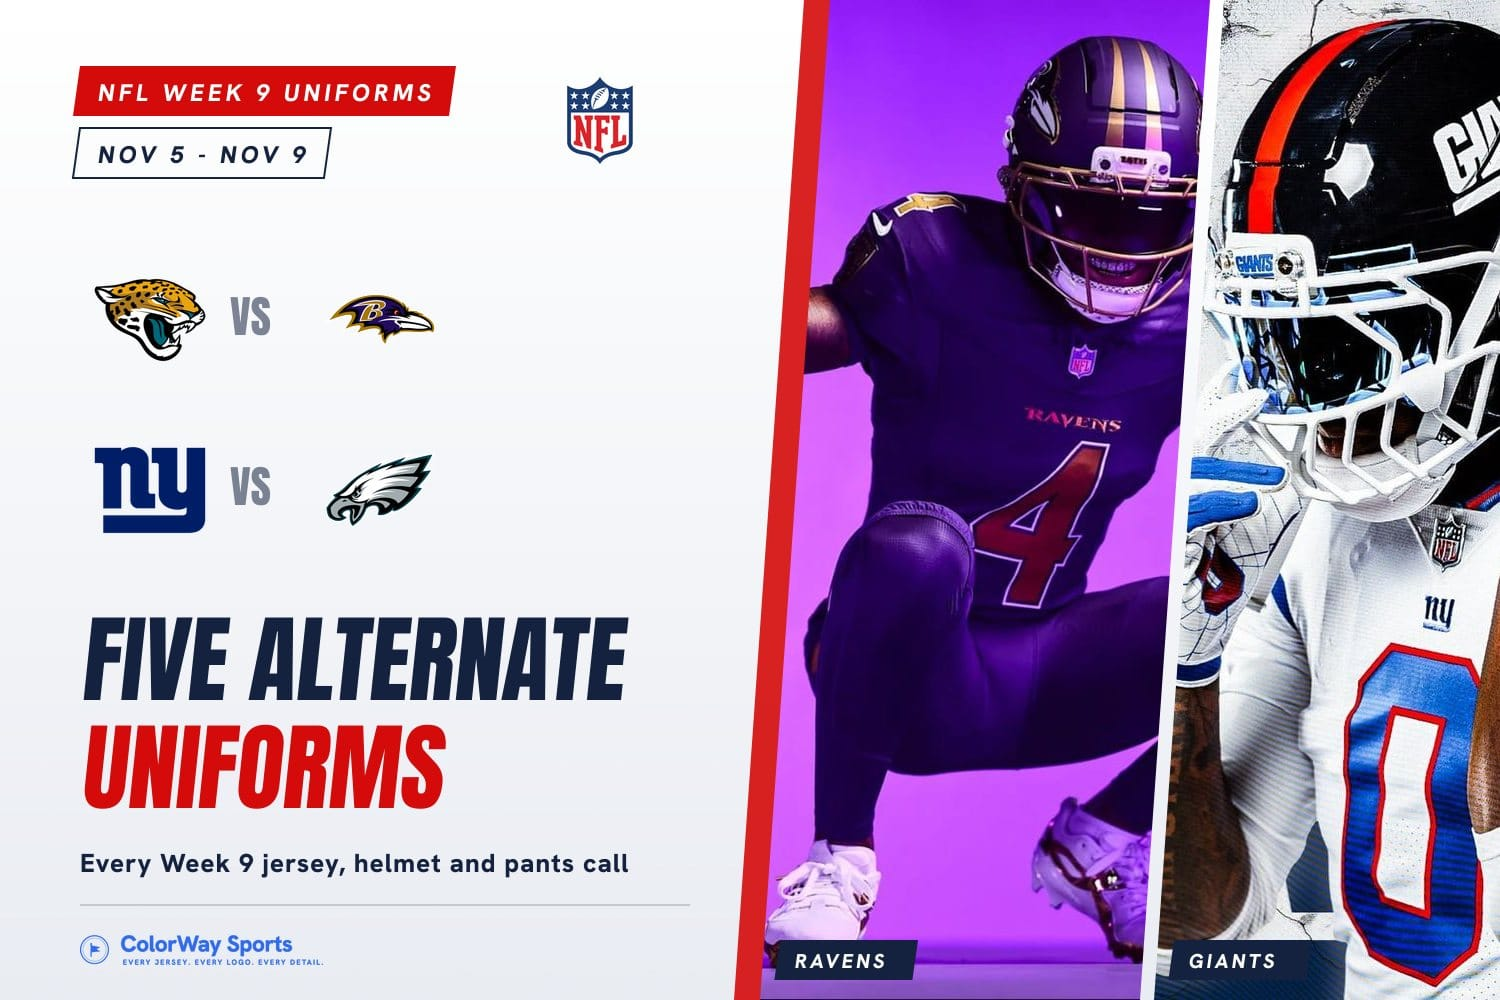
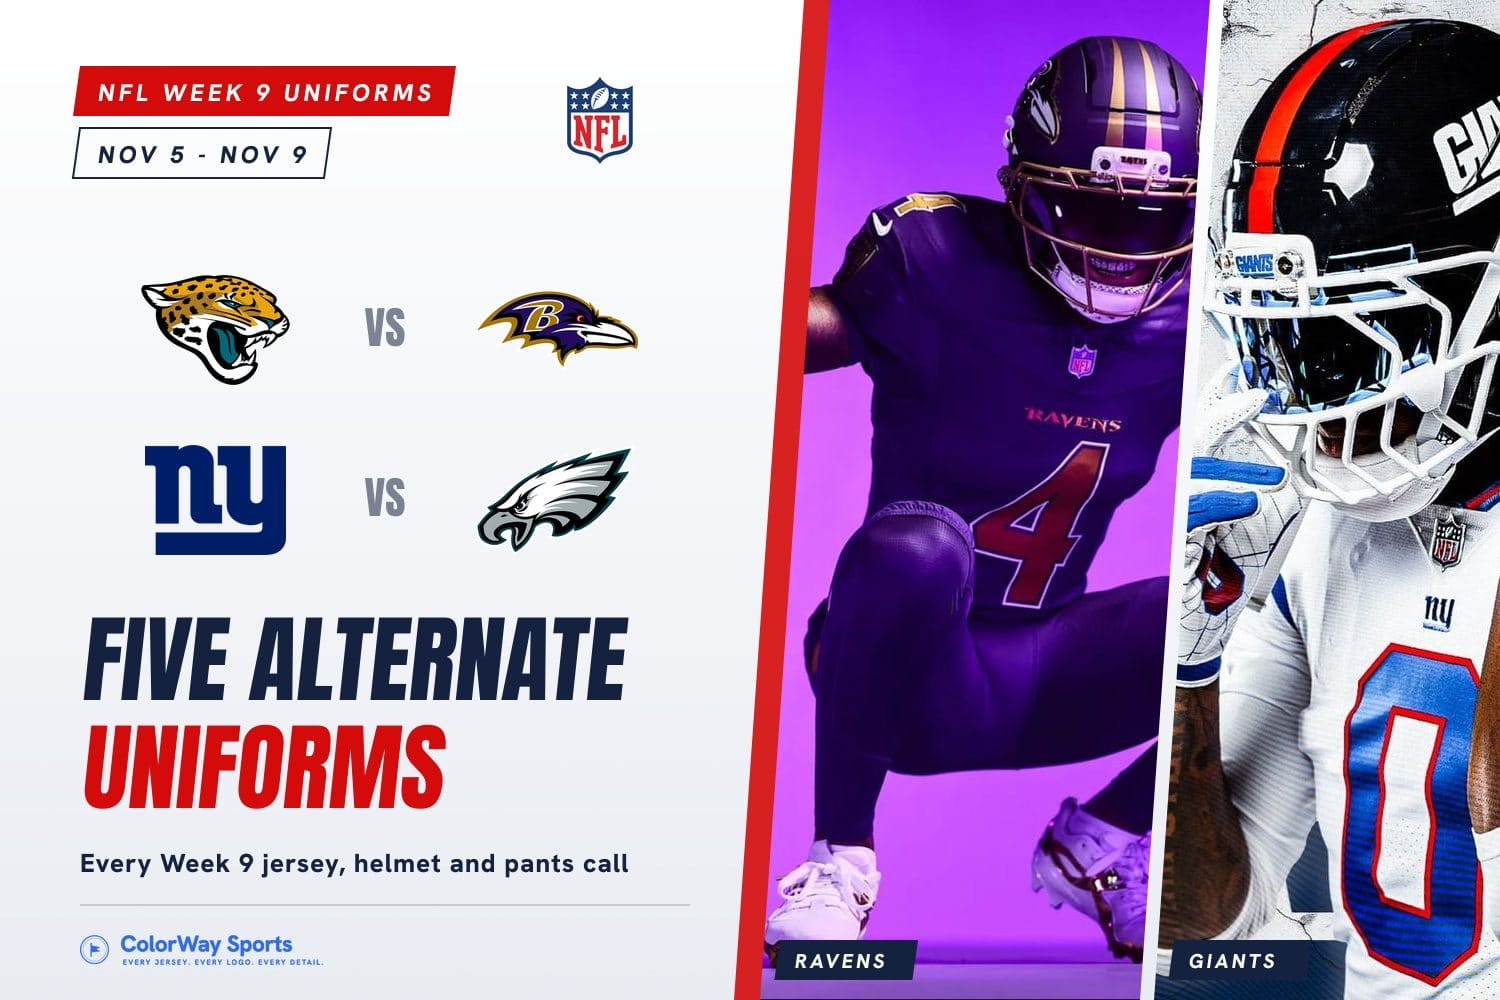
Simpler homepage (Jake 11/4): My Teams, lead + Jake's Takes, latest, one Tonight row (lib/tonight.ts) instead of the daily brief and three league bands; News becomes Latest (newest stories, then The Wire); compact My Teams cards; Week 9 cover matchups centered

Changed region(s): [[0.0613, 0.248, 0.4293, 0.403], [0.0613, 0.434, 0.3067, 0.558], [0.3067, 0.434, 0.4293, 0.558]]

diff --git a/app/page.tsx b/app/page.tsx
@@ -1,22 +1,16 @@
 import Header from "@/components/Header";
-import NflWeekZoneV2 from "@/components/NflWeekZoneV2";
-import NhlUniformsZone from "@/components/NhlUniformsZone";
 import StoryCard from "@/components/StoryCard";
-import {
-  TodayBrief,
-  LeadStory,
-  JakesTakes,
-  TonightStrip,
-} from "@/components/home/HomeRefresh";
-import { getJakesTakes, getTonight, latestStandsDate, standsPhotoFor, standsPool, todayBrief } from "@/lib/homeToday";
+import { LeadStory, JakesTakes } from "@/components/home/HomeRefresh";
+import { getJakesTakes, latestStandsDate, standsPhotoFor, standsPool } from "@/lib/homeToday";
 import { MyTeamsRow, TeamPicker } from "@/components/home/MyTeams";
 import { getMyTeamCards } from "@/lib/myTeams";
+import { tonightMatchups } from "@/lib/tonight";
+import TonightRow from "@/components/home/TonightRow";
 import { MOST_READ } from "@/lib/mostRead";
 import FromTheStandsRandom from "@/components/home/FromTheStandsRandom";
 import WireStrip from "@/components/WireStrip";
 import Footer from "@/components/Footer";
 import Link from "next/link";
-import NbaTonightZone from "@/components/NbaTonightZone";
 import { pickFor } from "@/lib/jerseyOfTheDay";
 import type { Metadata } from "next";
 import { getAllPosts, type PostMeta as Post } from "@/lib/posts";
@@ -303,13 +297,12 @@ export default async function Home() {
 
   // The self-updating pieces (homepage refresh, 10/5).
   const takes = getJakesTakes(4, new Set([...heroSlugs, ...gridSlugs]));
-  const tonight = getTonight();
-  const brief = todayBrief(tonight, takes);
   const standsPhoto = standsPhotoFor(todayEt, new Set([...heroSlugs, ...gridSlugs]));
   const standsPhotos = standsPool(new Set([...heroSlugs, ...gridSlugs]));
   const standsFresh = daysSince(latestStandsDate()) <= 7;
   const mostRead = MOST_READ.map((slug) => posts.find((p) => p.slug === slug)).filter((p): p is Post => !!p).slice(0, 5);
   const myTeamCards = getMyTeamCards();
+  const tonightGames = tonightMatchups(new Date());
   const todayLong = new Date(`${todayEt}T12:00:00Z`).toLocaleDateString("en-US", {
     weekday: "long",
     month: "long",
@@ -324,9 +317,9 @@ export default async function Home() {
         <h1 className="sr-only">
           ColorWay Sports — Every Jersey. Every Logo. Every Detail. Covering sports jerseys, uniforms, logos, scorebugs, and stadium design.
         </h1>
-        {/* 10/5: dateline + a brief written from today's data */}
-        <TodayBrief day={todayLong} lines={brief} />
-
+        {/* Jake 11/4: simpler, ESPN-style top to bottom: your teams, the lead,
+            tonight, latest, most read. The daily brief and the three league
+            bands are gone; /tonight holds every game. */}
         {/* Jake 11/2: the reader's followed teams, next uniform first. Shows only
             after they follow a team in the Find Your Team row below. */}
         <MyTeamsRow teams={myTeamCards} />
@@ -364,13 +357,9 @@ export default async function Home() {
           </section>
         )}
 
-        <TeamPicker teams={myTeamCards} />
+        <TonightRow games={tonightGames} label={todayLong.split(",")[0]} />
 
-        {/* Tonight across leagues, straight off the slate files. Moved below the
-            lead + three cards 10/13 (Jake: one up top, three underneath). */}
-        <div className="pt-8" />
-        <TonightStrip leagues={tonight} />
-        {/* The Wire now lives in the Jake's Takes rail up top (Jake 10/25). */}
+        <TeamPicker teams={myTeamCards} />
         <div className="pt-10" />
 
         {/* From the Stands (Jake's own photos, random each visit since 10/13) beside More Stories */}
@@ -440,12 +429,6 @@ export default async function Home() {
           </div>
         </section>
 
-        {/* League tools move below the editorial top half */}
-        <NflWeekZoneV2 />
-        {/* Jake 10/19: NBA band with every game's jerseys and our matchup grade. */}
-        <NbaTonightZone />
-        {/* Jake 11/2: MLB season is over, so the MLB and World Series bands are gone until spring. */}
-        <NhlUniformsZone />
       </main>
       <Footer />
     </>

diff --git a/app/news/page.tsx b/app/news/page.tsx
@@ -3,7 +3,8 @@ import Footer from "@/components/Footer";
 import Link from "next/link";
 import type { Metadata } from "next";
 import { getAllNews, groupByDay, newsThumb, recentNews, stamp } from "@/lib/news";
-import { getAllPosts } from "@/lib/posts";
+import { getAllPosts, getAllPostsByDate } from "@/lib/posts";
+import StoryCard from "@/components/StoryCard";
 import WireItem from "@/components/WireItem";
 import InlineNewsletter from "@/components/InlineNewsletter";
 import TwitterEmbed from "@/components/TwitterEmbed";
@@ -38,6 +39,9 @@ export default async function NewsFeed() {
     .sort((a, b) => (a.topViewsRank ?? 99) - (b.topViewsRank ?? 99))
     .slice(0, 5);
 
+  // Jake 11/4: this page is "Latest" in the nav, the newest stories first, then the wire.
+  const latest = getAllPostsByDate().filter((p) => p.coverImage || p.cardStyle).slice(0, 6);
+
   return (
     <>
       <Header />
@@ -45,13 +49,33 @@ export default async function NewsFeed() {
         {/* widgets.js is loaded globally; this re-runs it so wire embeds render */}
         <TwitterEmbed />
         <div className="max-w-[1080px] mx-auto px-5">
-          <header className="pt-9 pb-5 border-b-2 border-black">
+          <header className="pt-9 pb-4 border-b-2 border-black">
+            <h1 className="font-display text-[34px] sm:text-[40px] font-black tracking-[-0.025em] leading-[1.05] text-black m-0">
+              Latest
+            </h1>
+          </header>
+          <section className="pt-6 pb-4">
+            <div className="flex items-center justify-between mb-4">
+              <h2 className="font-display text-[12px] font-extrabold tracking-[0.18em] uppercase text-steel m-0">Newest stories</h2>
+              <Link prefetch={false} href="/stories" className="font-display text-[12px] font-extrabold text-orange">All stories &rarr;</Link>
+            </div>
+            <div className="grid grid-cols-1 sm:grid-cols-2 lg:grid-cols-3 gap-6">
+              {latest.map((post) => (
+                <StoryCard key={post.slug} slug={post.slug} title={post.title} category={post.category} date={post.date}
+                  updatedDate={post.updatedDate} excerpt={post.excerpt} gradient={post.gradient} overlayText={post.overlayText}
+                  logoSrc={post.logoSrc} logoSrc2={post.logoSrc2} coverImage={post.coverImage}
+                  coverImagePosition={post.coverImagePosition} coverImageFit={post.coverImageFit} cardStyle={post.cardStyle}
+                  kicker={post.kicker} showDate={true} compact />
+              ))}
+            </div>
+          </section>
+          <header className="pt-6 pb-5 border-b-2 border-black">
             <p className="font-display text-[11px] font-extrabold tracking-[0.24em] uppercase text-orange m-0 mb-2">
               ColorWay Sports
             </p>
-            <h1 className="font-display text-[34px] sm:text-[40px] font-black tracking-[-0.025em] leading-[1.05] text-black m-0 mb-3">
+            <h2 className="font-display text-[28px] sm:text-[32px] font-black tracking-[-0.025em] leading-[1.05] text-black m-0 mb-3">
               The Wire
-            </h1>
+            </h2>
             <p className="text-[15.5px] text-gray-medium max-w-[640px] leading-relaxed m-0 mb-2">
               Uniform news as it happens. Reveals, weekly combinations, throwbacks, and the stuff
               that goes wrong on the field. Short, fast, and checked before we post it.

diff --git a/components/home/MyTeams.tsx b/components/home/MyTeams.tsx
@@ -71,36 +71,34 @@ export function MyTeamsRow({ teams, teamPages }: { teams: MyTeamCard[]; teamPage
       </div>
       <div className="flex gap-3 overflow-x-auto pt-2 pr-2 pb-2 snap-x lg:flex-wrap lg:overflow-visible">
         {mine.map((t) => (
-          <div key={t.id} className="relative snap-start shrink-0 w-[260px] sm:w-[280px]">
+          <div key={t.id} className="relative snap-start shrink-0 w-[210px] sm:w-[250px]">
             <Link
               prefetch={false}
               href={teamPages ? teamPage(t.id) : t.href}
-              className="flex gap-3 items-center rounded-2xl p-3 text-white h-full"
+              className="flex gap-2.5 items-center rounded-xl p-2 sm:p-2.5 text-white h-full"
               style={{ background: `linear-gradient(120deg, #0A1733 0%, ${t.color} 170%)` }}
             >
-              <div className="w-[72px] h-[86px] shrink-0 rounded-xl bg-white flex items-center justify-center overflow-hidden">
+              <div className="w-[48px] h-[56px] sm:w-[58px] sm:h-[68px] shrink-0 rounded-lg bg-white flex items-center justify-center overflow-hidden">
                 {/* eslint-disable-next-line @next/next/no-img-element */}
                 <img src={t.next?.img ?? t.logo} alt="" className={t.next?.img ? "w-[90%] h-[90%] object-contain" : "w-[70%] h-[70%] object-contain"} />
               </div>
               <div className="min-w-0">
-                <div className="flex items-center gap-1.5 text-[10px] font-black tracking-[0.16em] uppercase text-sky">
+                <div className="flex items-center gap-1 text-[9px] font-black tracking-[0.14em] uppercase text-sky truncate">
                   {/* eslint-disable-next-line @next/next/no-img-element */}
-                  <img src={t.logo} alt="" className="w-4 h-4 object-contain" />
+                  <img src={t.logo} alt="" className="w-3.5 h-3.5 object-contain" />
                   {t.nickname} · {t.league}
                 </div>
                 {t.next ? (
                   <>
-                    <div className="font-display font-black text-[16px] leading-tight mt-1">{t.next.look}</div>
-                    <div className="text-[12px] text-white/75 mt-0.5 truncate">
+                    <div className="font-display font-black text-[14px] sm:text-[15px] leading-tight mt-0.5 truncate">{t.next.look}</div>
+                    <div className="text-[11px] text-white/75 mt-0.5 truncate">
                       {t.next.when} · {t.next.opp}
                     </div>
-                    {!t.next.confirmed && t.league === "NFL" && <div className="text-[10px] text-white/55 mt-0.5">Expected look</div>}
-                  </>
+                                      </>
                 ) : (
-                  <div className="font-display font-black text-[16px] leading-tight mt-1">{t.note}</div>
+                  <div className="font-display font-black text-[14px] leading-tight mt-0.5">{t.note}</div>
                 )}
-                <div className="text-[11px] font-bold text-white/85 mt-1">{teamPages ? "Team page" : "Full schedule"} &rarr;</div>
-              </div>
+                              </div>
             </Link>
             {editing && (
               <button

diff --git a/app/tonight/page.tsx b/app/tonight/page.tsx
@@ -2,43 +2,19 @@ import Header from "@/components/Header";
 import Footer from "@/components/Footer";
 import Link from "next/link";
 import type { Metadata } from "next";
-import { getMyTeamCards, teamPagePath, type MyTeamCard } from "@/lib/myTeams";
+import { teamPagePath, type MyTeamCard } from "@/lib/myTeams";
+import { ORDER, LEAGUE_NAME, LEAGUE_LOGO, tonightMatchups } from "@/lib/tonight";
 import { revalidatePageWithin } from "@/lib/gameDayTitle";
 
 // Tonight (Jake 11/4, ESPN's Scores tab for uniforms): every game on today's
-// slate across leagues, both teams' jerseys side by side. Built from the My
-// Teams cards: a home card ("vs Heat") pairs with the away card whose next
-// game is "at <home>". Refreshes after midnight Eastern like the homepage.
+// slate across leagues, both teams' jerseys side by side (lib/tonight.ts).
+// Refreshes after midnight Eastern like the homepage.
 
 export const metadata: Metadata = {
   title: "Uniforms Tonight: What Every Team Is Wearing Today",
   description: "Every NFL, NBA, NHL and college football game today, with the jersey each team is wearing. Updated daily.",
   alternates: { canonical: "/tonight" },
 };
-
-const ORDER = ["NFL", "CFB", "NBA", "NHL", "MLB"];
-const LEAGUE_NAME: Record<string, string> = { CFB: "College Football" };
-const LEAGUE_LOGO: Record<string, string> = {
-  NFL: "/logos/leagues/nfl.png", CFB: "/logos/leagues/college-football.svg", NBA: "/logos/leagues/nba.png",
-  NHL: "/logos/leagues/nhl.png", MLB: "/logos/leagues/mlb.png",
-};
-
-type Matchup = { league: string; away?: MyTeamCard; home: MyTeamCard };
-
-function tonight(now: Date): Matchup[] {
-  const today = getMyTeamCards(now).filter((c) => c.next && /^(Today|Tonight)/.test(c.next.when));
-  const out: Matchup[] = [];
-  for (const home of today.filter((c) => c.next!.opp.startsWith("vs "))) {
-    const away = today.find((c) => c.league === home.league && c.next!.opp === `at ${home.nickname}`);
-    out.push({ league: home.league, away, home });
-  }
-  // Road teams whose host we don't track (a college opponent outside our list).
-  const paired = new Set(out.map((m) => m.away?.id));
-  for (const c of today.filter((x) => x.next!.opp.startsWith("at ") && !paired.has(x.id))) {
-    out.push({ league: c.league, away: c, home: c });
-  }
-  return out.sort((a, b) => ORDER.indexOf(a.league) - ORDER.indexOf(b.league));
-}
 
 function Side({ c, solo }: { c?: MyTeamCard; solo?: boolean }) {
   if (!c) return <div className="flex-1" />;
@@ -60,7 +36,7 @@ export default async function TonightPage() {
   const etNow = new Date(now.toLocaleString("en-US", { timeZone: "America/New_York" }));
   const toMidnight = (24 * 3600) - (etNow.getHours() * 3600 + etNow.getMinutes() * 60);
   await revalidatePageWithin(Math.max(300, toMidnight + 120));
-  const games = tonight(now);
+  const games = tonightMatchups(now);
   const leagues = ORDER.filter((l) => games.some((g) => g.league === l));
   const dateLabel = now.toLocaleDateString("en-US", { weekday: "long", month: "long", day: "numeric", timeZone: "America/New_York" });
   const LABEL = "font-display text-[11px] font-black tracking-[0.18em] uppercase";

diff --git a/components/home/TonightRow.tsx b/components/home/TonightRow.tsx
@@ -1,0 +1,53 @@
+import Link from "next/link";
+import { teamPagePath, type MyTeamCard } from "@/lib/myTeams";
+import { LEAGUE_LOGO, LEAGUE_NAME, ORDER, type Matchup } from "@/lib/tonight";
+
+// The homepage's one Tonight row (Jake 11/4): which leagues play today, the
+// first few matchups with both jerseys, and a door to /tonight. Replaces the
+// three full NFL, NBA and NHL bands that made the homepage crowded.
+
+function Mini({ c }: { c: MyTeamCard }) {
+  return (
+    <Link prefetch={false} href={teamPagePath(c.id)} className="flex flex-col items-center gap-1 min-w-0 flex-1">
+      <div className="w-[64px] h-[72px] rounded-lg bg-white border border-border flex items-center justify-center overflow-hidden">
+        {/* eslint-disable-next-line @next/next/no-img-element */}
+        <img src={c.next?.img ?? c.logo} alt="" className={c.next?.img ? "w-[92%] h-[92%] object-contain" : "w-[60%] h-[60%] object-contain"} loading="lazy" />
+      </div>
+      <span className="font-display text-[12px] font-extrabold leading-tight truncate max-w-full">{c.nickname}</span>
+    </Link>
+  );
+}
+
+export default function TonightRow({ games, label }: { games: Matchup[]; label: string }) {
+  if (!games.length) return null;
+  const leagues = ORDER.filter((l) => games.some((g) => g.league === l));
+  const shown = games.filter((g) => g.away && g.away !== g.home).slice(0, 4);
+  return (
+    <section className="max-w-[1200px] mx-auto px-5 pt-8">
+      <div className="flex items-center justify-between border-b-2 border-black pb-2 mb-3">
+        <span className="font-display text-[11px] font-black tracking-[0.18em] uppercase text-black">Tonight · {label}</span>
+        <Link prefetch={false} href="/tonight" className="font-display text-[12px] font-extrabold text-orange">
+          Every game &rarr;
+        </Link>
+      </div>
+      <div className="flex gap-2 mb-3 overflow-x-auto">
+        {leagues.map((l) => (
+          <Link prefetch={false} key={l} href={`/tonight#${l.toLowerCase()}`} className="shrink-0 rounded-full border border-border pl-2 pr-3 py-1 font-display text-[12px] font-extrabold flex items-center gap-1.5">
+            {/* eslint-disable-next-line @next/next/no-img-element */}
+            <img src={LEAGUE_LOGO[l]} alt="" className="w-4 h-4 object-contain" />
+            {LEAGUE_NAME[l] ?? l} · {games.filter((g) => g.league === l).length}
+          </Link>
+        ))}
+      </div>
+      <div className="grid grid-cols-1 sm:grid-cols-2 lg:grid-cols-4 gap-3">
+        {shown.map((g) => (
+          <div key={g.home.id} className="rounded-xl border border-border p-2.5 flex items-center gap-1">
+            <Mini c={g.away!} />
+            <span className="font-display font-black text-[11px] text-steel">at</span>
+            <Mini c={g.home} />
+          </div>
+        ))}
+      </div>
+    </section>
+  );
+}

diff --git a/lib/tonight.ts b/lib/tonight.ts
@@ -1,0 +1,31 @@
+// Today's games across leagues, paired home and away (Jake 11/4, the ESPN
+// Scores tab for uniforms). Built from the My Teams cards: a home card
+// ("vs Heat") pairs with the away card whose next game is "at <home>". Used by
+// /tonight and the homepage's Tonight row.
+
+import { getMyTeamCards, type MyTeamCard } from "@/lib/myTeams";
+
+export const ORDER = ["NFL", "CFB", "NBA", "NHL", "MLB"];
+export const LEAGUE_NAME: Record<string, string> = { CFB: "College Football" };
+export const LEAGUE_LOGO: Record<string, string> = {
+  NFL: "/logos/leagues/nfl.png", CFB: "/logos/leagues/college-football.svg", NBA: "/logos/leagues/nba.png",
+  NHL: "/logos/leagues/nhl.png", MLB: "/logos/leagues/mlb.png",
+};
+
+export type Matchup = { league: string; away?: MyTeamCard; home: MyTeamCard };
+
+export function tonightMatchups(now: Date): Matchup[] {
+  const today = getMyTeamCards(now).filter((c) => c.next && /^(Today|Tonight)/.test(c.next.when));
+  const out: Matchup[] = [];
+  for (const home of today.filter((c) => c.next!.opp.startsWith("vs "))) {
+    const away = today.find((c) => c.league === home.league && c.next!.opp === `at ${home.nickname}`);
+    out.push({ league: home.league, away, home });
+  }
+  // Road teams whose host we don't track (a college opponent outside our list).
+  const paired = new Set(out.map((m) => m.away?.id));
+  for (const c of today.filter((x) => x.next!.opp.startsWith("at ") && !paired.has(x.id))) {
+    out.push({ league: c.league, away: c, home: c });
+  }
+  return out.sort((a, b) => ORDER.indexOf(a.league) - ORDER.indexOf(b.league));
+}
+

diff --git a/components/Header.tsx b/components/Header.tsx
@@ -304,7 +304,8 @@ const navLinks = [
   // Stories left the top nav 9/30 (Jake: the sportslogos.net model, league rail
   // + search, no catch-all "Stories" link). /stories and every /stories/<slug>
   // URL are untouched; the league rail, search and footer still reach them.
-  { label: "News", href: "/news" },
+  // Jake 11/4: "Latest" = newest stories + The Wire on one page (/news).
+  { label: "Latest", href: "/news" },
   { label: "About", href: "/about" },
   { label: "Contact", href: "/contact" },
 ];

diff --git a/components/Footer.tsx b/components/Footer.tsx
@@ -3,7 +3,7 @@ import { InstagramIcon, LinkedInIcon, TikTokIcon, XIcon } from "@/components/Fol
 
 const navLinks = [
   { label: "Home", href: "/" },
-  { label: "News", href: "/news" },
+  { label: "Latest", href: "/news" },
   { label: "Stories", href: "/stories" },
   { label: "Newsletter", href: "/newsletter" },
   { label: "About", href: "/about" },
